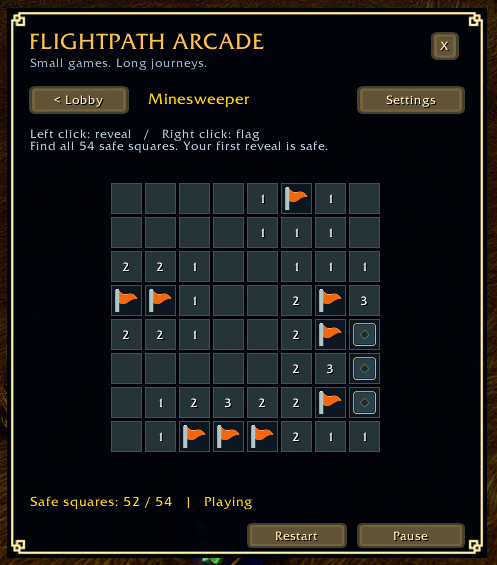
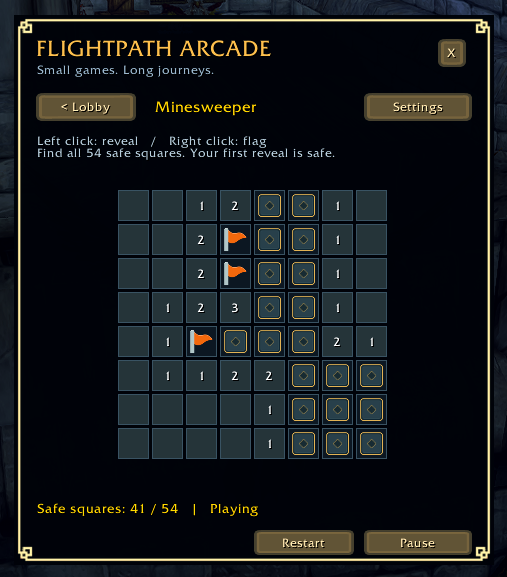
Refresh in-game screenshots and simplify player documentation

Changed region(s): [[0.0, 0.0, 1.0, 1.0], [0.2113, 0.3009, 0.7847, 0.8124]]

diff --git a/README.md b/README.md
@@ -2,6 +2,73 @@
 
 Four small, dependency-free native WoW games for flightpaths: Minesweeper, gem matching, Snake, and memory pairs. Version 1.2.0.
 
+- Open from `/fpa` or the winged cyan gem minimap button
+- Automatically open when your flight starts and pause when you land
+- Play ten gem-matching levels with animated swaps and cascades
+- Adjust the window size and save your preferences
+- Includes all artwork; no extra libraries or media downloads
+
+## Compatibility
+
+Built for **World of Warcraft: Forever beta, 1.60.x**, Interface **16001**. Beta client updates may affect compatibility.
+
+## Install
+
+1. Exit WoW. Extract the ZIP.
+2. Copy its **FlightpathArcade** folder into the Forever client's `Interface/AddOns` folder. The final path must be `Interface/AddOns/FlightpathArcade/FlightpathArcade.toc`; avoid an extra nested folder.
+3. Enable Flightpath Arcade in the character-selection AddOns list and log in. No libraries, media downloads, or game installation changes are required by this package.
+
+Use `/fpa` or the winged cyan gem minimap button. `/fpa settings` opens preferences. Drag the window background to move it.
+
+## Play
+
+- **Minesweeper:** left click to reveal, right click to flag. Find all 54 safe squares around ten mines. Your first reveal and its neighbors are safe.
+- **Gem matching:** click neighboring gems to swap them. Match three or more, build cascades, and reach the target within 20 moves. Invalid swaps are free. Beat ten levels, with targets rising from 600 to 1,050. The HUD tracks your level, score, target and moves.
+- **Snake:** press Resume, then use arrows or WASD. Eat apples and avoid walls and yourself. Space or Escape pauses and releases the keys; Escape may also close the window. Clickable arrows let you play without capturing normal movement and chat keys. Combat pauses keyboard play and releases capture.
+- **Memory pairs:** click cards to find eight matching rune pairs. Mismatches turn back after a short peek.
+
+Pause and Resume let you take a break. Closing the window keeps the current board until reload or logout; reopening starts paused. Lobby pauses the current game. Gem matching keeps its round when you switch games: choose Continue to return. Selecting another game starts a fresh board.
+
+### Gem matching levels
+
+Reach the target to unlock **Next level** after the last cascade finishes. **Retry level** starts a fresh board at the same level; **New run** returns to level one. Winning on your last move still counts. Finish level ten to complete the run. If you run out of moves below the target, retry or start again.
+
+## Match-3 scoring
+
+Each unique gem cleared awards **10 points**: three gems score 30, four score 40 and five score 50. There is no extra four/five-match bonus or cascade multiplier. Every later cascade adds 10 points per gem; a three-gem clear followed by four gems scores 70 in total. Intersecting matches count shared gems once per clear. One valid swap costs one move regardless of cascade count; invalid swaps cost none.
+
+| Level | 1 | 2 | 3 | 4 | 5 | 6 | 7 | 8 | 9 | 10 |
+| --- | --- | --- | --- | --- | --- | --- | --- | --- | --- | --- |
+| Target | 600 | 650 | 700 | 750 | 800 | 850 | 900 | 950 | 1000 | 1050 |
+
+Every level starts with 20 moves and zero score. Random boards mean success is not guaranteed.
+
+## Settings and flight behavior
+
+Open `/fpa settings` to choose whether the arcade opens when a flight begins, closes when it ends, and shows its minimap button. All three options start on. Opening the taxi map alone does not launch the arcade.
+
+Closing the window during a flight keeps it closed until the next flight. Landing always pauses play and releases keyboard focus; your auto-close setting decides whether the window closes too. Reloading mid-flight opens the lobby when auto-open is enabled. Turning auto-open on mid-flight applies to your next flight.
+
+Use **Smaller**, **Larger** and **Reset** to set the window scale from 75% to 150% of the game UI. The window automatically fits smaller viewports; Reset restores 100%. Drag the background to move it.
+
+Preferences survive reload and logout; active games and window position do not. The minimap button has a fixed position and can overlap other addons. `/fpa` still works when the button is hidden.
+
+## Screenshots
+
+Updated in-game captures of the launcher, all four games and preferences.
+
+![Flightpath Arcade launcher during a flight through Elwynn Forest](docs/screenshots/launcher.png)
+
+| Gem matching | Minesweeper |
+| --- | --- |
+| ![Gem matching at level 3, score 150 of 700, with 18 moves remaining](docs/screenshots/match-three.png) | ![Minesweeper with 41 of 54 safe squares revealed](docs/screenshots/minesweeper.png) |
+
+| Memory pairs | Snake |
+| --- | --- |
+| ![Memory pairs with two of eight pairs found in seven turns](docs/screenshots/memory-pairs.png) | ![Snake game over with a score of six](docs/screenshots/snake.png) |
+
+![Preferences with flight options and the minimap button enabled, and window scale at 100 percent](docs/screenshots/settings.png)
+
 ## Credits
 
 **Artwork by [Kenney](https://kenney.nl).** Thank you, Kenney, for making these game assets available under [Creative Commons CC0](https://creativecommons.org/publicdomain/zero/1.0/). We credit the creator even though CC0 does not require attribution.
@@ -18,91 +85,6 @@ Four small, dependency-free native WoW games for flightpaths: Minesweeper, gem m
 
 Selected artwork is resized, recolored or adapted for the addon; the original CC0 notices remain bundled. Original addon code, covered tiles, card backs and minimap wings/backing are credited separately to Flightpath Arcade contributors under MIT. Kenney artwork retains its CC0 status.
 
-## Screenshots
-
-Actual in-game screenshots from an earlier build, preserved unchanged. The Match-3 view predates the 1.2.0 level HUD and result panels. Snake's older help text says "gold squares"; the current version correctly says "apples".
-
-![Flightpath Arcade launcher in World of Warcraft](docs/screenshots/launcher.png)
-
-| Gem matching (before 1.2.0 levels) | Minesweeper |
-| --- | --- |
-| ![Earlier-build gem matching board](docs/screenshots/match-three.png) | ![Minesweeper with 52 of 54 safe squares revealed](docs/screenshots/minesweeper.png) |
-
-| Memory pairs | Snake |
-| --- | --- |
-| ![Memory pairs with two pairs found](docs/screenshots/memory-pairs.png) | ![Paused Snake game with an apple and score of six](docs/screenshots/snake.png) |
-
-## Match-3 scoring
-
-Each unique gem cleared awards **10 points**: three gems score 30, four score 40 and five score 50. There is no extra four/five-match bonus or cascade multiplier. Every later cascade adds 10 points per gem; a three-gem clear followed by four gems scores 70 in total. Intersecting matches count shared gems once per clear. One valid swap costs one move regardless of cascade count; invalid swaps cost none.
-
-| Level | 1 | 2 | 3 | 4 | 5 | 6 | 7 | 8 | 9 | 10 |
-| --- | --- | --- | --- | --- | --- | --- | --- | --- | --- | --- |
-| Target | 600 | 650 | 700 | 750 | 800 | 850 | 900 | 950 | 1000 | 1050 |
-
-Every level starts with 20 moves and zero score. Random boards mean success is not guaranteed.
-
-## Compatibility
-
-Targets **Blizzard World of Warcraft: Forever beta, 1.60.x**, Interface **16001**. The beta may change; compatibility with the latest client build is not yet verified. Earlier builds received in-game testing; the 1.2.0 level/result flow requires the checklist below.
-
-Compatibility references:
-
-- Blizzard's September 22 beta announcement identifies 1.60.1 build 69977: https://us.forums.blizzard.com/en/wow/t/beta-client-update-september-22/2358655
-- Questie's Forever TOC uses 16001: https://raw.githubusercontent.com/Questie/Questie/master/Questie_Camelot.toc
-- Forever shares Retail's project ID; version/interface detection is used instead: https://raw.githubusercontent.com/Questie/Questie/master/Modules/QuestieCompat.lua
-- Pinned 1.60.1.70009 Blizzard UI API snapshot exposes UnitOnTaxi: https://raw.githubusercontent.com/Gethe/wow-ui-source/bd2470aed543f72697a044e989285b6c83e63f73/Interface/AddOns/Blizzard_APIDocumentationGenerated/UnitDocumentation.lua
-
-The pinned snapshot establishes API evidence, not the latest installed beta version. Flight detection samples UnitOnTaxi on world/control events and every 0.5 seconds. Opening the taxi map does not trigger the arcade. Optional event registration is guarded.
-
-## Install
-
-1. Exit WoW. Extract the ZIP.
-2. Copy its **FlightpathArcade** folder into the Forever client's `Interface/AddOns` folder. The final path must be `Interface/AddOns/FlightpathArcade/FlightpathArcade.toc`; avoid an extra nested folder.
-3. Enable Flightpath Arcade in the character-selection AddOns list and log in. No libraries, media downloads, or game installation changes are required by this package.
-
-Use `/fpa` or the winged cyan gem minimap button. `/fpa settings` opens preferences. Drag the window background to move it.
-
-## Play
-
-- **Minesweeper:** left click reveals; right click toggles a flag. Reveal 54 safe cells around ten mines. The first reveal and its neighbors are safe.
-- **Gem matching:** select two adjacent faceted gems. Match three or more to score; cascades count. Each of ten levels has 20 valid swaps: targets rise from 600 to 1,050 in steps of 50. Score resets each level. Invalid swaps cost nothing; unplayable boards regenerate automatically. The HUD shows level, score/target and moves. A **Level complete!** panel appears only after the final cascade settles, with Next level, Retry level and Back to lobby. Out of moves offers Retry level, New run and Back to lobby. Winning on the last move counts as a win. Level ten completes the run; New run returns to level one. Board clicks are locked throughout animation and results. Pause, close, landing and combat freeze animation; reopening requires Resume. Retry level replaces the current board at the same level; New run resets progress to level one.
-- **Snake:** press Resume to capture arrows or WASD. Eat red apples, avoid walls and yourself. Space or Escape releases capture and pauses; Escape may also close the window through WoW's standard window handler. Clickable arrow controls also start/resume play without acquiring keyboard focus. Use these to keep normal movement/chat bindings available. Keyboard Resume is unavailable in combat. Entering combat pauses and releases captured keys; clickable directions remain available.
-- **Memory pairs:** uncover eight rune pairs; mismatches remain visible for 0.8 seconds of active play.
-
-Restart creates a new board (Retry level in gem matching). Lobby pauses the current game. Gem matching retains its round when switching games; select its Continue card to return paused, or return to the unchanged result panel after completion. Other game selections start new boards. Close preserves the current board in memory. Reopening always pauses; Resume continues. Wins and losses release keyboard capture.
-
-## Settings and flight behavior
-
-All three settings default on and persist in `FlightpathArcadeDB`: open when flight begins, close when flight ends, and show the minimap button. The slash command works with the button hidden. Mid-flight reload opens the lobby if auto-open is enabled. Closing manually during flight prevents reopening until the next flight. Landing always pauses and releases keyboard focus; auto-close decides whether the window also closes. This also applies to a window opened manually during flight. Turning auto-open on mid-flight takes effect on the next flight.
-
-Settings also provides a saved window scale from 75% to 150%, relative to the game UI, with Smaller, Larger and Reset (100%) controls. The window fits within UIParent logical dimensions with margins, preserves square cells, and recenters when display size or game UI scale changes. It does not confuse physical pixels with UI units or resize the minimap button. If the chosen size cannot fit, Settings indicates auto-fit; very small viewports may reduce text size below the chosen setting. At 1080p with normal game UI scale, the default window fits without reduction.
-
-Only preferences survive reload/logout; active games and window position do not. The minimap button uses a fixed position and may overlap other addons. The bundled artwork uses three padded TGA textures of selected Kenney CC0 and original MIT artwork (784 KiB combined texture data); see Media/CREDITS.md and Media/LICENSE.txt. There are no sounds, global key bindings, network calls, or background game simulations. A lightweight flight observer remains active while hidden. Up to 144 cell buttons are allocated once and reused. Snake advances at most once per rendered frame, so a severe hitch slows it rather than catching up unexpectedly. Normal WoW chat and movement are available whenever Snake's explicit keyboard capture is inactive.
-
-## Development and testing
-
-Native Lua and WoW frames; no runtime dependencies or external downloads. The addon observes flights at 0.5-second intervals and updates games only while shown and unpaused. Pooled controls and three texture atlases keep allocation and asset size small.
-
-From the repository root, run `lua tests/run.lua` with an existing Lua interpreter (Lua 5.1 recommended). The deterministic rules and mock WoW UI harness require no WoW installation. `python tests/check_level_scope.py` checks preserved rules/settings/assets. `python scripts/package.py` validates load files and makes the install ZIP in `dist/`; it includes only the addon folder, documentation and licenses, never tests, screenshots, repository metadata or source asset collections. Python is required only for packaging, not gameplay.
-
-The retuned 1.2.0 implementation passed the full 9,590-assertion deterministic rules/mock UI suite and independent scoring/boundary checks under Lua 5.4. Structural/package and preserved-scope checks also pass. Tests and development tools are in the source repository, not the install ZIP. Mock tests do not verify actual client behavior: earlier builds received in-game testing, while the 1.2.0 level/result flow still requires the checklist below.
-
-### In-game checklist
-
-1. Enable Lua errors, log in, open `/fpa`, and verify layout at your UI scale; resize the game viewport and move the window.
-2. Open/close the taxi map without flying: arcade stays closed. Take a flight: opens once. Close mid-flight: stays closed. Take another flight: opens again.
-3. Exercise every combination of auto-open/auto-close, including manual opening during a flight; land during Snake and verify movement/chat recover immediately.
-4. Hide the minimap button, use `/fpa settings`, restore it, reload on ground and in flight, and verify settings persist without duplicate windows.
-5. Play each game to a win/loss; restart, return to lobby, close/reopen mid-game. Check Minesweeper flags and first-click safety, invalid gem swaps, Snake reverse-turn prevention, and memory mismatch pause/resume.
-6. Verify Snake keyboard capture occurs only after Resume, releases on Pause/Space/Escape/hide/landing/game over, and clickable directions work without capture. Check chat entry and normal movement afterward. Enter combat while capturing keys; confirm immediate release, blocked keyboard Resume, and working clickable controls.
-7. In gem matching, verify moving gems stay above the tile backgrounds throughout every phase; verify a valid swap visibly travels, matched gems pulse and clear, survivors fall, and new gems enter from above. Check an invalid swap returns, rapid clicks are ignored, cascades score once, and pause/close/landing/combat freeze every stage. Retry and switch games mid-fall; return to gem matching and confirm the retained round resumes without skipping any phases. Verify all four games display artwork without atlas bleeding at your UI scale.
-8. Check the single window border, close-button clearance, left-aligned heading and button hover/press/disabled states. Test saved Smaller/Larger/Reset at 1080p and after changing game resolution/UI scale; confirm all controls remain visible, cells square, and the minimap button unchanged.
-9. Win on the last move and during a multi-cascade swap: the completion panel must wait for every animation and show the final score. Rapidly click Next level: advance exactly once. Check Retry level, New run, Back to lobby, switching games, close/reopen, flight-end and combat interruptions. Exhaust moves below target and verify the loss panel; complete level ten and verify New run returns to one.
-10. Leave the addon closed through several flights. Confirm no errors, no unintended reopening, and stable memory/CPU using the client's addon profiling tools if available.
-
-Beta release candidate: perform this checklist before treating the addon as in-game verified.
-
-## License and credits
+## License
 
 Original addon code is available under the [MIT license](LICENSE). Selected Kenney artwork is CC0; see [asset provenance](FlightpathArcade/Media/CREDITS.md) and the seven unmodified [source notices](FlightpathArcade/Media/Licenses). Original artwork has its own MIT notice in Media. Only selected redistributable textures are included. World of Warcraft and Blizzard imagery belong to their respective rights holders. This project is unofficial and not endorsed by Blizzard.

diff --git a/FlightpathArcade/README.md b/FlightpathArcade/README.md
@@ -2,6 +2,61 @@
 
 Four small, dependency-free native WoW games for flightpaths: Minesweeper, gem matching, Snake, and memory pairs. Version 1.2.0.
 
+- Open from `/fpa` or the winged cyan gem minimap button
+- Automatically open when your flight starts and pause when you land
+- Play ten gem-matching levels with animated swaps and cascades
+- Adjust the window size and save your preferences
+- Includes all artwork; no extra libraries or media downloads
+
+## Compatibility
+
+Built for **World of Warcraft: Forever beta, 1.60.x**, Interface **16001**. Beta client updates may affect compatibility.
+
+## Install
+
+1. Exit WoW. Extract the ZIP.
+2. Copy its **FlightpathArcade** folder into the Forever client's `Interface/AddOns` folder. The final path must be `Interface/AddOns/FlightpathArcade/FlightpathArcade.toc`; avoid an extra nested folder.
+3. Enable Flightpath Arcade in the character-selection AddOns list and log in. No libraries, media downloads, or game installation changes are required by this package.
+
+Use `/fpa` or the winged cyan gem minimap button. `/fpa settings` opens preferences. Drag the window background to move it.
+
+## Play
+
+- **Minesweeper:** left click to reveal, right click to flag. Find all 54 safe squares around ten mines. Your first reveal and its neighbors are safe.
+- **Gem matching:** click neighboring gems to swap them. Match three or more, build cascades, and reach the target within 20 moves. Invalid swaps are free. Beat ten levels, with targets rising from 600 to 1,050. The HUD tracks your level, score, target and moves.
+- **Snake:** press Resume, then use arrows or WASD. Eat apples and avoid walls and yourself. Space or Escape pauses and releases the keys; Escape may also close the window. Clickable arrows let you play without capturing normal movement and chat keys. Combat pauses keyboard play and releases capture.
+- **Memory pairs:** click cards to find eight matching rune pairs. Mismatches turn back after a short peek.
+
+Pause and Resume let you take a break. Closing the window keeps the current board until reload or logout; reopening starts paused. Lobby pauses the current game. Gem matching keeps its round when you switch games: choose Continue to return. Selecting another game starts a fresh board.
+
+### Gem matching levels
+
+Reach the target to unlock **Next level** after the last cascade finishes. **Retry level** starts a fresh board at the same level; **New run** returns to level one. Winning on your last move still counts. Finish level ten to complete the run. If you run out of moves below the target, retry or start again.
+
+## Match-3 scoring
+
+Each unique gem cleared awards **10 points**: three gems score 30, four score 40 and five score 50. There is no extra four/five-match bonus or cascade multiplier. Every later cascade adds 10 points per gem; a three-gem clear followed by four gems scores 70 in total. Intersecting matches count shared gems once per clear. One valid swap costs one move regardless of cascade count; invalid swaps cost none.
+
+| Level | 1 | 2 | 3 | 4 | 5 | 6 | 7 | 8 | 9 | 10 |
+| --- | --- | --- | --- | --- | --- | --- | --- | --- | --- | --- |
+| Target | 600 | 650 | 700 | 750 | 800 | 850 | 900 | 950 | 1000 | 1050 |
+
+Every level starts with 20 moves and zero score. Random boards mean success is not guaranteed.
+
+## Settings and flight behavior
+
+Open `/fpa settings` to choose whether the arcade opens when a flight begins, closes when it ends, and shows its minimap button. All three options start on. Opening the taxi map alone does not launch the arcade.
+
+Closing the window during a flight keeps it closed until the next flight. Landing always pauses play and releases keyboard focus; your auto-close setting decides whether the window closes too. Reloading mid-flight opens the lobby when auto-open is enabled. Turning auto-open on mid-flight applies to your next flight.
+
+Use **Smaller**, **Larger** and **Reset** to set the window scale from 75% to 150% of the game UI. The window automatically fits smaller viewports; Reset restores 100%. Drag the background to move it.
+
+Preferences survive reload and logout; active games and window position do not. The minimap button has a fixed position and can overlap other addons. `/fpa` still works when the button is hidden.
+
+## Screenshots
+
+See the [in-game screenshot gallery](https://github.com/MStewGT/flightpath-arcade#screenshots) for the launcher, games and preferences.
+
 ## Credits
 
 **Artwork by [Kenney](https://kenney.nl).** Thank you, Kenney, for making these game assets available under [Creative Commons CC0](https://creativecommons.org/publicdomain/zero/1.0/). We credit the creator even though CC0 does not require attribution.
@@ -18,63 +73,6 @@ Four small, dependency-free native WoW games for flightpaths: Minesweeper, gem m
 
 Selected artwork is resized, recolored or adapted for the addon; the original CC0 notices remain bundled. Original addon code, covered tiles, card backs and minimap wings/backing are credited separately to Flightpath Arcade contributors under MIT. Kenney artwork retains its CC0 status.
 
-## Compatibility
+## License
 
-Targets **Blizzard World of Warcraft: Forever beta, 1.60.x**, Interface **16001**. The beta may change; compatibility with the latest client build is not yet verified. Earlier builds received in-game testing; the 1.2.0 level/result flow requires the checklist below.
-
-Compatibility references:
-
-- Blizzard's September 22 beta announcement identifies 1.60.1 build 69977: https://us.forums.blizzard.com/en/wow/t/beta-client-update-september-22/2358655
-- Questie's Forever TOC uses 16001: https://raw.githubusercontent.com/Questie/Questie/master/Questie_Camelot.toc
-- Forever shares Retail's project ID; version/interface detection is used instead: https://raw.githubusercontent.com/Questie/Questie/master/Modules/QuestieCompat.lua
-- Pinned 1.60.1.70009 Blizzard UI API snapshot exposes UnitOnTaxi: https://raw.githubusercontent.com/Gethe/wow-ui-source/bd2470aed543f72697a044e989285b6c83e63f73/Interface/AddOns/Blizzard_APIDocumentationGenerated/UnitDocumentation.lua
-
-The pinned snapshot establishes API evidence, not the latest installed beta version. Flight detection samples UnitOnTaxi on world/control events and every 0.5 seconds. Opening the taxi map does not trigger the arcade. Optional event registration is guarded.
-
-## Install
-
-1. Exit WoW. Extract the ZIP.
-2. Copy its **FlightpathArcade** folder into the Forever client's `Interface/AddOns` folder. The final path must be `Interface/AddOns/FlightpathArcade/FlightpathArcade.toc`; avoid an extra nested folder.
-3. Enable Flightpath Arcade in the character-selection AddOns list and log in. No libraries, media downloads, or game installation changes are required by this package.
-
-Use `/fpa` or the winged cyan gem minimap button. `/fpa settings` opens preferences. Drag the window background to move it.
-
-## Play
-
-- **Minesweeper:** left click reveals; right click toggles a flag. Reveal 54 safe cells around ten mines. The first reveal and its neighbors are safe.
-- **Gem matching:** select two adjacent faceted gems. Match three or more to score; cascades count. Each of ten levels has 20 valid swaps: targets rise from 600 to 1,050 in steps of 50. Score resets each level. Invalid swaps cost nothing; unplayable boards regenerate automatically. The HUD shows level, score/target and moves. A **Level complete!** panel appears only after the final cascade settles, with Next level, Retry level and Back to lobby. Out of moves offers Retry level, New run and Back to lobby. Winning on the last move counts as a win. Level ten completes the run; New run returns to level one. Board clicks are locked throughout animation and results. Pause, close, landing and combat freeze animation; reopening requires Resume. Retry level replaces the current board at the same level; New run resets progress to level one.
-- **Snake:** press Resume to capture arrows or WASD. Eat red apples, avoid walls and yourself. Space or Escape releases capture and pauses; Escape may also close the window through WoW's standard window handler. Clickable arrow controls also start/resume play without acquiring keyboard focus. Use these to keep normal movement/chat bindings available. Keyboard Resume is unavailable in combat. Entering combat pauses and releases captured keys; clickable directions remain available.
-- **Memory pairs:** uncover eight rune pairs; mismatches remain visible for 0.8 seconds of active play.
-
-Restart creates a new board (Retry level in gem matching). Lobby pauses the current game. Gem matching retains its round when switching games; select its Continue card to return paused, or return to the unchanged result panel after completion. Other game selections start new boards. Close preserves the current board in memory. Reopening always pauses; Resume continues. Wins and losses release keyboard capture.
-
-## Settings and flight behavior
-
-All three settings default on and persist in `FlightpathArcadeDB`: open when flight begins, close when flight ends, and show the minimap button. The slash command works with the button hidden. Mid-flight reload opens the lobby if auto-open is enabled. Closing manually during flight prevents reopening until the next flight. Landing always pauses and releases keyboard focus; auto-close decides whether the window also closes. This also applies to a window opened manually during flight. Turning auto-open on mid-flight takes effect on the next flight.
-
-Settings also provides a saved window scale from 75% to 150%, relative to the game UI, with Smaller, Larger and Reset (100%) controls. The window fits within UIParent logical dimensions with margins, preserves square cells, and recenters when display size or game UI scale changes. It does not confuse physical pixels with UI units or resize the minimap button. If the chosen size cannot fit, Settings indicates auto-fit; very small viewports may reduce text size below the chosen setting. At 1080p with normal game UI scale, the default window fits without reduction.
-
-Only preferences survive reload/logout; active games and window position do not. The minimap button uses a fixed position and may overlap other addons. The bundled artwork uses three padded TGA textures of selected Kenney CC0 and original MIT artwork (784 KiB combined texture data); see Media/CREDITS.md and Media/LICENSE.txt. There are no sounds, global key bindings, network calls, or background game simulations. A lightweight flight observer remains active while hidden. Up to 144 cell buttons are allocated once and reused. Snake advances at most once per rendered frame, so a severe hitch slows it rather than catching up unexpectedly. Normal WoW chat and movement are available whenever Snake's explicit keyboard capture is inactive.
-
-## Validation
-
-The retuned 1.2.0 implementation passed the full 9,590-assertion deterministic rules/mock UI suite and independent scoring/boundary checks under Lua 5.4. Structural/package and preserved-scope checks also pass. Tests and development tools are in the source repository, not the install ZIP. Mock tests do not verify actual client behavior: earlier builds received in-game testing, while the 1.2.0 level/result flow still requires the checklist below.
-
-### In-game checklist
-
-1. Enable Lua errors, log in, open `/fpa`, and verify layout at your UI scale; resize the game viewport and move the window.
-2. Open/close the taxi map without flying: arcade stays closed. Take a flight: opens once. Close mid-flight: stays closed. Take another flight: opens again.
-3. Exercise every combination of auto-open/auto-close, including manual opening during a flight; land during Snake and verify movement/chat recover immediately.
-4. Hide the minimap button, use `/fpa settings`, restore it, reload on ground and in flight, and verify settings persist without duplicate windows.
-5. Play each game to a win/loss; restart, return to lobby, close/reopen mid-game. Check Minesweeper flags and first-click safety, invalid gem swaps, Snake reverse-turn prevention, and memory mismatch pause/resume.
-6. Verify Snake keyboard capture occurs only after Resume, releases on Pause/Space/Escape/hide/landing/game over, and clickable directions work without capture. Check chat entry and normal movement afterward. Enter combat while capturing keys; confirm immediate release, blocked keyboard Resume, and working clickable controls.
-7. In gem matching, verify moving gems stay above the tile backgrounds throughout every phase; verify a valid swap visibly travels, matched gems pulse and clear, survivors fall, and new gems enter from above. Check an invalid swap returns, rapid clicks are ignored, cascades score once, and pause/close/landing/combat freeze every stage. Retry and switch games mid-fall; return to gem matching and confirm the retained round resumes without skipping any phases. Verify all four games display artwork without atlas bleeding at your UI scale.
-8. Check the single window border, close-button clearance, left-aligned heading and button hover/press/disabled states. Test saved Smaller/Larger/Reset at 1080p and after changing game resolution/UI scale; confirm all controls remain visible, cells square, and the minimap button unchanged.
-9. Win on the last move and during a multi-cascade swap: the completion panel must wait for every animation and show the final score. Rapidly click Next level: advance exactly once. Check Retry level, New run, Back to lobby, switching games, close/reopen, flight-end and combat interruptions. Exhaust moves below target and verify the loss panel; complete level ten and verify New run returns to one.
-10. Leave the addon closed through several flights. Confirm no errors, no unintended reopening, and stable memory/CPU using the client's addon profiling tools if available.
-
-Beta release candidate: perform this checklist before treating the addon as in-game verified.
-
-## Scoring
-
-Gem matching awards 10 points per unique gem cleared: 3 = 30, 4 = 40, 5 = 50. Cascades add the same points without a multiplier; intersecting matches count a shared gem once per clear.
+Original addon code is available under the [MIT license](LICENSE). Selected Kenney artwork is CC0; see [asset provenance](Media/CREDITS.md) and the seven unmodified [source notices](Media/Licenses). Original artwork has its own MIT notice in Media. Only selected redistributable textures are included. World of Warcraft and Blizzard imagery belong to their respective rights holders. This project is unofficial and not endorsed by Blizzard.

diff --git a/docs/screenshots/README.md b/docs/screenshots/README.md
@@ -1,13 +1,12 @@
 # In-game screenshots
 
-These five original captures show an earlier build and are preserved unchanged:
+These six updated user-provided captures are preserved unchanged:
 
-- `launcher.png`: launcher in World of Warcraft.
-- `match-three.png`: gem matching before the 1.2.0 level HUD and result panels.
-- `minesweeper.png`: 52 of 54 safe squares revealed.
-- `memory-pairs.png`: two of eight pairs found.
-- `snake.png`: paused at score six; the old help text predates the correction to "Eat apples".
-
-Caption: **Representative in-game screenshots from an earlier build. The Match-3 view predates the 1.2.0 level HUD.**
+- [Launcher](launcher.png): choosing a game during a flight through Elwynn Forest.
+- [Gem matching](match-three.png): level 3, score 150/700, with 18 moves remaining.
+- [Minesweeper](minesweeper.png): 41 of 54 safe squares revealed.
+- [Memory pairs](memory-pairs.png): two of eight pairs found in seven turns.
+- [Snake](snake.png): game over with a score of six.
+- [Preferences](settings.png): flight options and minimap button enabled; window scale at 100%.
 
 Blizzard game imagery remains the property of its respective rights holders and is not covered by the repository's MIT or Kenney CC0 licenses.
